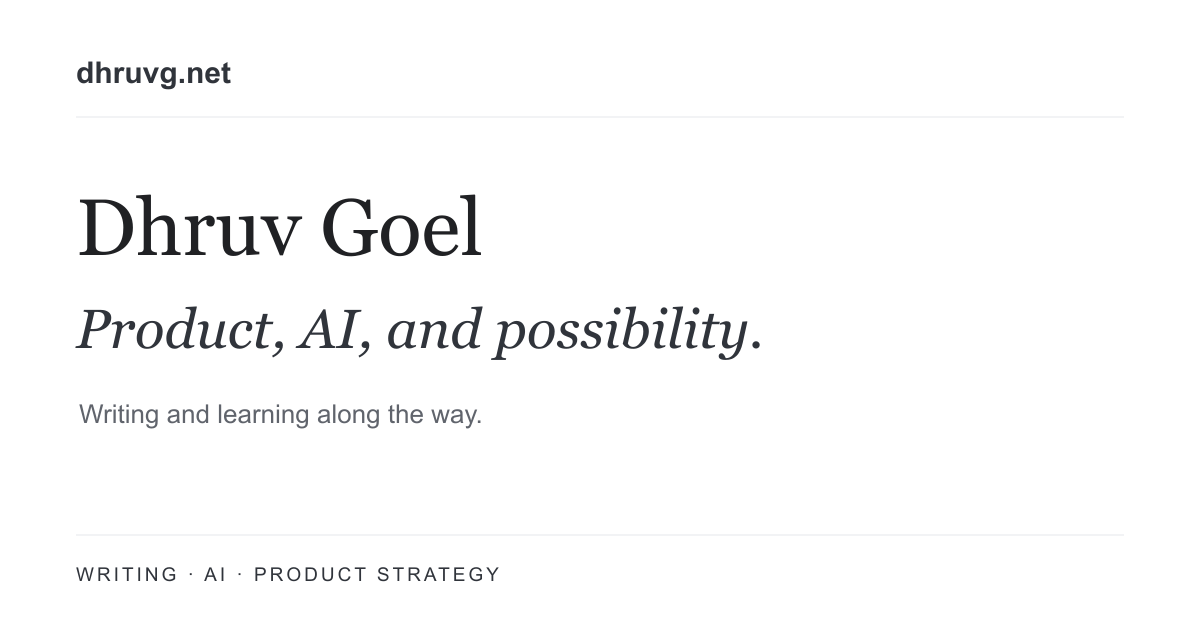
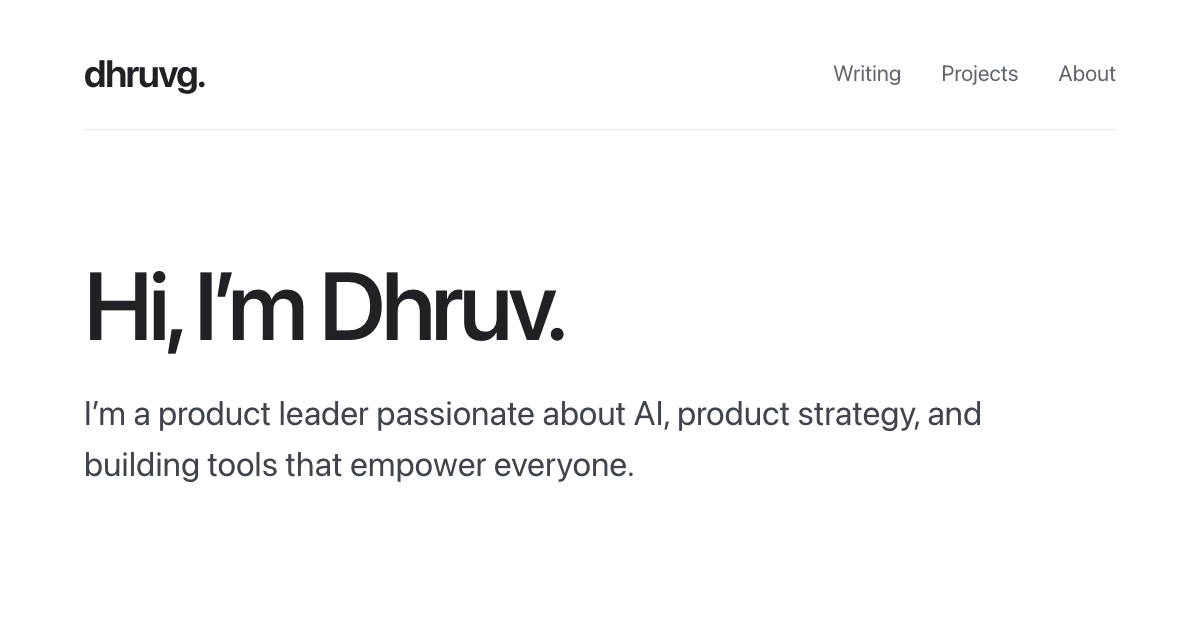
Redesign link-preview card to match the site; add author meta
- Render social-card.png from scripts/social-card.html using the site's styles
- Version the og:image URL so LinkedIn refetches it
- Use the approved intro as the site description (meets LinkedIn's 100-char minimum)

diff --git a/scripts/social-card.html b/scripts/social-card.html
@@ -1,0 +1,32 @@
+<!doctype html>
+<!-- Source for public/social-card.png (1200x630 link-preview image). Regenerate with:
+     "/Applications/Google Chrome.app/Contents/MacOS/Google Chrome" --headless=new --hide-scrollbars \
+       --window-size=1200,630 --screenshot=public/social-card.png scripts/social-card.html -->
+<html lang="en">
+<head>
+<meta charset="UTF-8" />
+<style>
+  html, body { margin: 0; width: 1200px; height: 630px; overflow: hidden; background: #fff; }
+  body { font-family: -apple-system, BlinkMacSystemFont, 'Segoe UI', sans-serif; color: #202124; font-synthesis: none; -webkit-font-smoothing: antialiased; }
+  .card { box-sizing: border-box; height: 630px; padding: 0 84px; display: flex; flex-direction: column; }
+  .header { display: flex; align-items: center; justify-content: space-between; padding: 50px 0 34px; border-bottom: 1px solid #e5e7eb; }
+  .wordmark { font-size: 38px; font-weight: 650; letter-spacing: -1.6px; }
+  nav { display: flex; gap: 40px; font-size: 22px; color: #60646c; }
+  .hero { flex: 1; display: flex; flex-direction: column; justify-content: center; padding-bottom: 20px; }
+  h1 { font-size: 96px; font-weight: 550; line-height: 1.1; letter-spacing: -4px; margin: 0 0 30px; }
+  .intro { font-size: 34px; line-height: 1.5; color: #40444c; margin: 0; max-width: 960px; }
+</style>
+</head>
+<body>
+  <div class="card">
+    <div class="header">
+      <span class="wordmark">dhruvg.</span>
+      <nav><span>Writing</span><span>Projects</span><span>About</span></nav>
+    </div>
+    <div class="hero">
+      <h1>Hi, I’m Dhruv.</h1>
+      <p class="intro">I’m a product leader passionate about AI, product strategy, and building tools that empower everyone.</p>
+    </div>
+  </div>
+</body>
+</html>

diff --git a/src/data/site.ts b/src/data/site.ts
@@ -1,6 +1,6 @@
 export const site = {
   name: 'Dhruv Goel',
-  description: 'Dhruv Goel — product leadership, AI, product strategy, and building tools that empower everyone.',
+  description: 'Dhruv Goel is a product leader passionate about AI, product strategy, and building tools that empower everyone.',
   substack: 'https://dhruvgblog.substack.com',
   linkedin: 'https://www.linkedin.com/in/godhruv/',
   github: 'https://github.com/dhruvstar10',

diff --git a/README.md b/README.md
@@ -31,7 +31,9 @@ may still be an older Node. Put it first on your `PATH` before running npm:
 - `src/pages/projects/index.astro`: project showcase.
 - `src/data/writing.ts`: external article titles, summaries, URLs, sources, and dates.
 - `src/components/ArticleList.astro`: reusable external article index.
-- `public/social-card.svg`: editable source for `social-card.png`, used in link previews.
+- `scripts/social-card.html`: source for `public/social-card.png`, the link-preview
+  image, styled like the home page. The regenerate command is in the file; after
+  changing it, refresh LinkedIn's cache at https://www.linkedin.com/post-inspector/.
 - `src/pages/index.astro`: homepage.
 - `src/pages/blog/index.astro`: writing index and Substack link.
 - `src/pages/about.astro`: short introduction; extend with approved biography.
